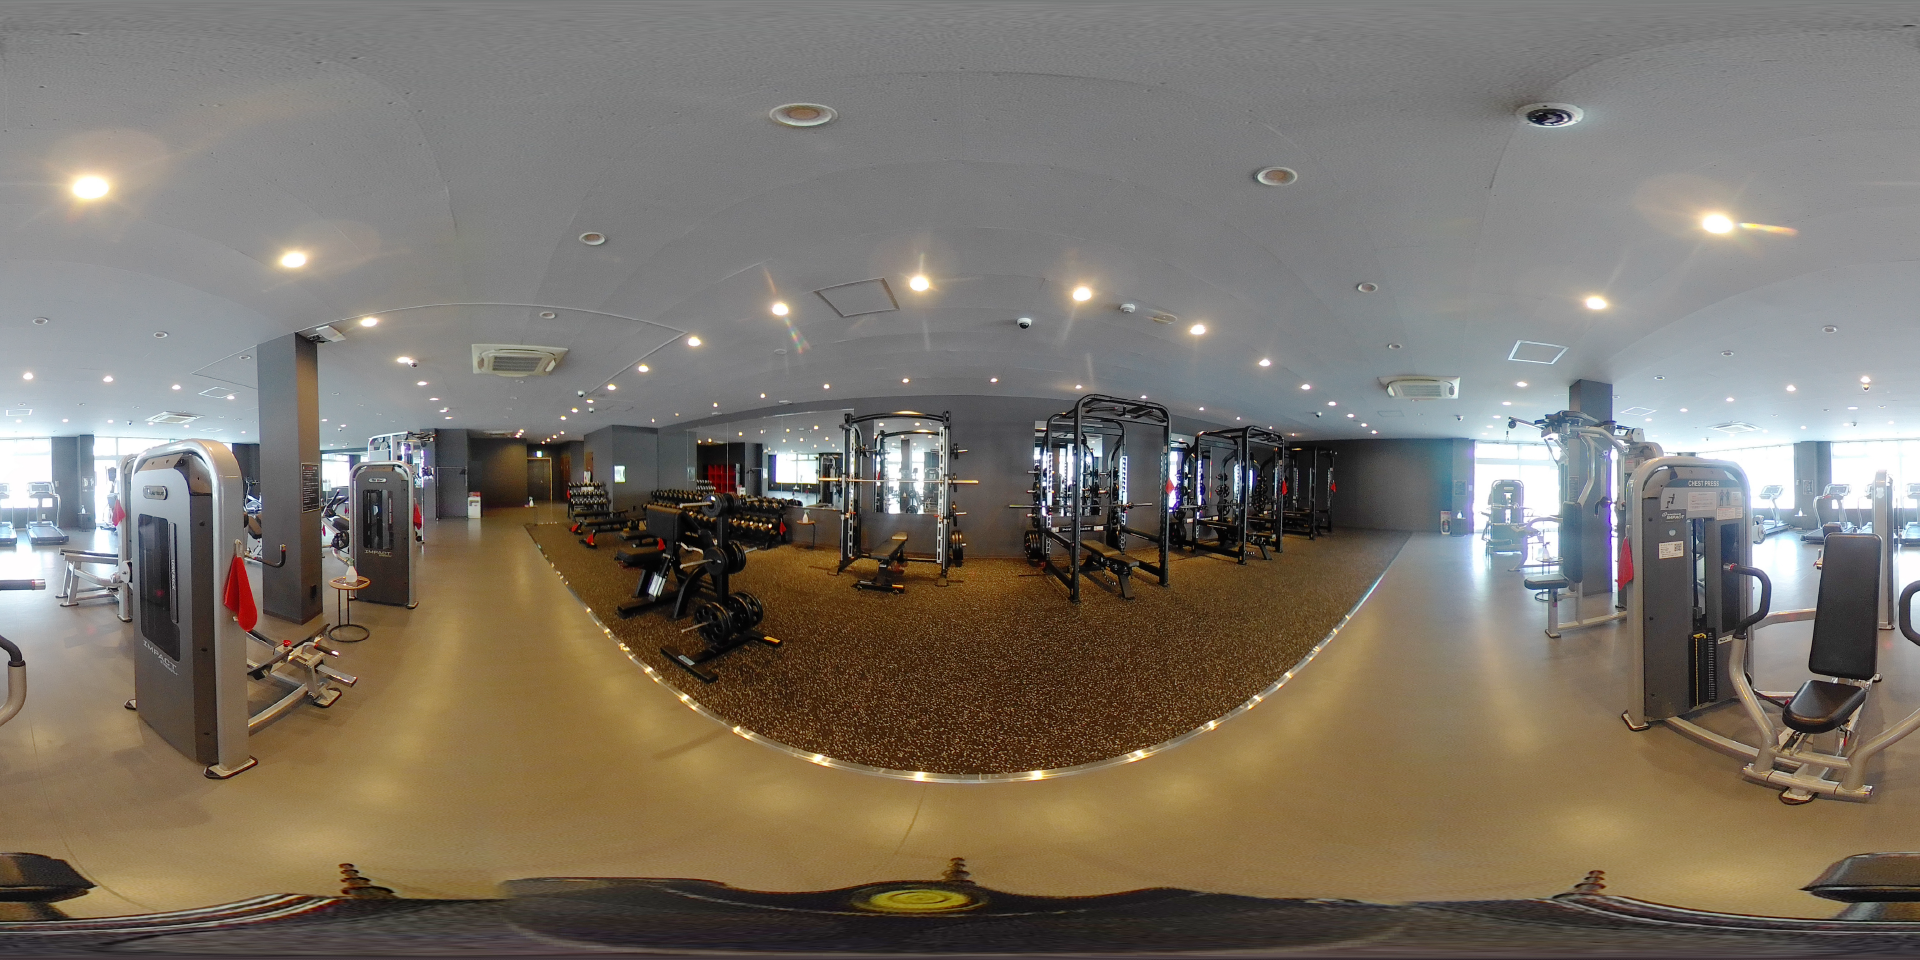
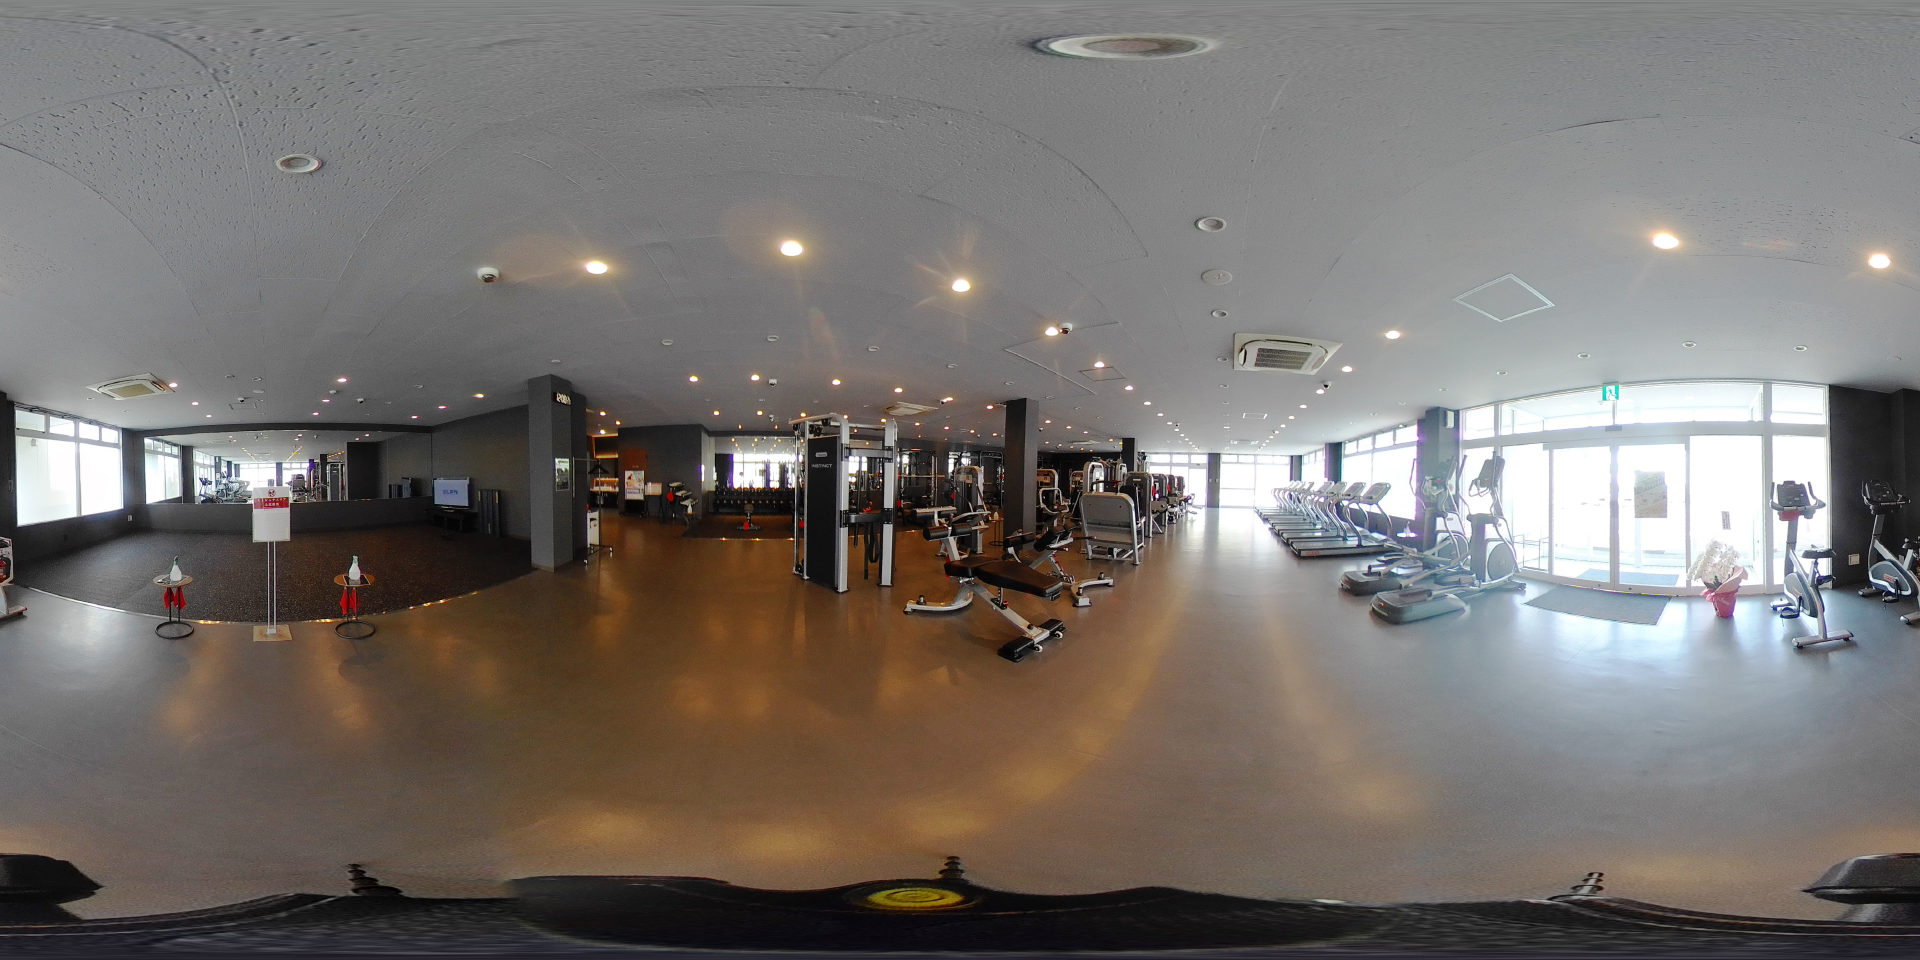
thetaスライダー

diff --git a/app/public/wp-content/themes/esty_gym/assets/css/top.css b/app/public/wp-content/themes/esty_gym/assets/css/top.css
@@ -2679,6 +2679,14 @@
   line-height: 1;
   text-align: center;
   padding: 0.75em;
+  display: -webkit-box;
+  display: -webkit-flex;
+  display: -ms-flexbox;
+  display: flex;
+  -webkit-box-pack: center;
+  -webkit-justify-content: center;
+      -ms-flex-pack: center;
+          justify-content: center;
 }
 
 .viewer360 nav a {
@@ -2690,6 +2698,7 @@
   display: inline-block;
   overflow: hidden;
   background-size: cover;
+  background-position: center;
   -webkit-box-sizing: border-box;
           box-sizing: border-box;
   -webkit-transition: all 0.5s ease;
@@ -2767,7 +2776,14 @@
   .viewer360 #screen {
     height: 60vh;
   }
+  .viewer360 nav {
+    -webkit-box-pack: justify;
+    -webkit-justify-content: space-between;
+        -ms-flex-pack: justify;
+            justify-content: space-between;
+  }
   .viewer360 nav a {
-    height: 40px;
+    height: 50px;
+    width: 48%;
   }
 }

diff --git a/app/public/wp-content/themes/esty_gym/assets/scss/top.scss b/app/public/wp-content/themes/esty_gym/assets/scss/top.scss
@@ -2324,6 +2324,8 @@ body {
     line-height: 1;
     text-align: center;
     padding: 0.75em;
+    display: flex;
+    justify-content: center;
 }
 
 .viewer360 nav a {    
@@ -2335,6 +2337,7 @@ body {
 	display: inline-block;
 	overflow: hidden;
 	background-size: cover;
+    background-position: center;
 	box-sizing: border-box;
 	transition: all 0.5s ease;
     position: relative;
@@ -2404,8 +2407,12 @@ body {
 		height: 60vh;
 	}
 
+    .viewer360 nav {
+        justify-content: space-between;
+    }
 	.viewer360 nav a {
-		height: 40px;
+		height: 50px;
+        width: 48%;
 	}
 }
 

diff --git a/app/public/wp-content/themes/esty_gym/index.php b/app/public/wp-content/themes/esty_gym/index.php
@@ -162,7 +162,7 @@
         <li><img src="<?php echo get_template_directory_uri(); ?>/assets/img/top/yourself_slide03.jpg" alt=""></li>
     </ul>
     */?>
-    <div class="viewer360" data-num="5" data-pass="<?php echo get_template_directory_uri(); ?>/assets/img/theta/estygym24-0">
+    <div class="viewer360" data-num="3" data-pass="<?php echo get_template_directory_uri(); ?>/assets/img/theta/estygym24-0">
 		<div id="screen"></div>
     </div><!-- /.viewer360 -->
 </section>
